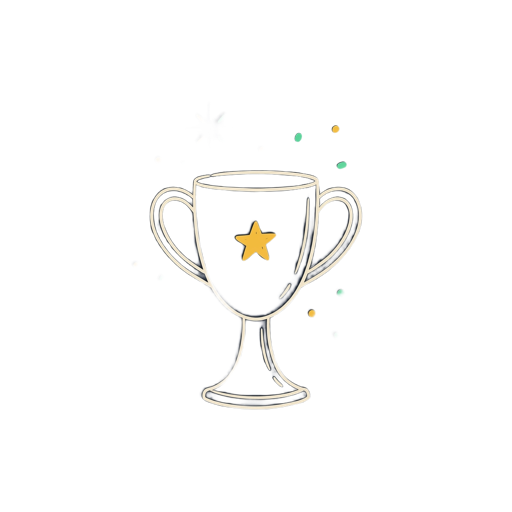
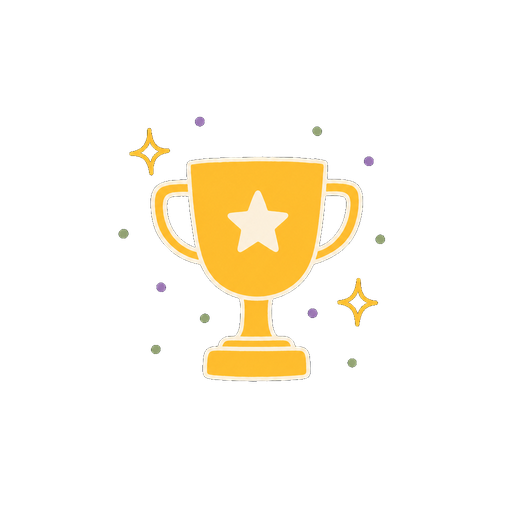
Dashboard plný doodlů + trofej v2 (zlatá) + dedup .env
- Nové doodly (GPT Image 2 + lokální chroma-key výřez): rocket, headset, folder, trophy v2
- Card/StatCard: doodle sloty (rohové dekorace) — pipeline→raketa, projekty→složka,
  tickety→headset, revenue→graf, win-rate→trofej; ověřeno screenshoty (1440px, bez překryvů)
- .env dedup (EMAIL_PROVIDER=smtp teď platí); Resend klíč je zkrácený (12 znaků) — čeká na plný

diff --git a/src/ui/components/ui.tsx b/src/ui/components/ui.tsx
@@ -2,23 +2,32 @@ import type { ReactNode } from "react";
 
 /** Znovupoužitelné UI prvky — tmavý motiv, mint/emerald akcent. */
 
-export function Card({ children, className = "" }: { children: ReactNode; className?: string }) {
-  return <div className={`rounded-2xl border border-line bg-surface p-5 ${className}`}>{children}</div>;
+export function Card({ children, className = "", doodle, doodlePos = "tr" }: { children: ReactNode; className?: string; doodle?: string; doodlePos?: "tr" | "br" }) {
+  return (
+    <div className={`relative rounded-2xl border border-line bg-surface p-5 ${className}`}>
+      {doodle && (
+        <img src={doodle} alt="" width={80} height={80}
+          className={`pointer-events-none absolute select-none opacity-95 ${doodlePos === "tr" ? "right-2 top-0" : "bottom-0 right-2"}`} />
+      )}
+      {children}
+    </div>
+  );
 }
 
-export function StatCard({ label, value, hint, icon, tone = "accent" }: { label: string; value: ReactNode; hint?: string; icon?: ReactNode; tone?: "accent" | "amber" | "blue" | "pink" }) {
+export function StatCard({ label, value, hint, icon, tone = "accent", doodle }: { label: string; value: ReactNode; hint?: string; icon?: ReactNode; tone?: "accent" | "amber" | "blue" | "pink"; doodle?: string }) {
   const iconBg: Record<string, string> = {
     accent: "bg-accent-soft text-accent", amber: "bg-amber-400/10 text-amber-400",
     blue: "bg-sky-400/10 text-sky-400", pink: "bg-pink-400/10 text-pink-400",
   };
   return (
-    <div className="rounded-2xl border border-line bg-surface p-5 transition-colors hover:border-accent/40">
+    <div className="relative rounded-2xl border border-line bg-surface p-5 transition-colors hover:border-accent/40">
       <div className="flex items-center justify-between">
         <span className="text-sm font-medium text-muted">{label}</span>
         {icon && <span className={`grid h-9 w-9 place-items-center rounded-xl ${iconBg[tone]}`}>{icon}</span>}
       </div>
       <div className="mt-3 font-display text-4xl tracking-wide text-ink">{value}</div>
       {hint && <div className="mt-1 text-xs text-faint">{hint}</div>}
+      {doodle && <img src={doodle} alt="" width={52} height={52} className="pointer-events-none absolute bottom-2 right-3 select-none opacity-90" />}
     </div>
   );
 }

diff --git a/src/ui/pages/dashboard-view.tsx b/src/ui/pages/dashboard-view.tsx
@@ -30,13 +30,13 @@ export function DashboardView({ data }: { data: DashboardData }) {
     <div className="mx-auto max-w-6xl space-y-6">
       <div className="grid gap-4 sm:grid-cols-2 lg:grid-cols-4">
         <Link href="/tasks"><StatCard label="Moje práce" value={data.myWork.count} hint="otevřené úkoly" tone="accent" icon={<I d={<><path d="M9 11l3 3L22 4" /><path d="M21 12v7a2 2 0 0 1-2 2H5a2 2 0 0 1-2-2V5a2 2 0 0 1 2-2h11" /></>} />} /></Link>
-        <StatCard label="Win-rate" value={data.win.winRatePct != null ? `${data.win.winRatePct}%` : "—"} hint={`vyhráno ${data.win.won} · prohráno ${data.win.lost}`} tone="blue" icon={<I d={<><circle cx="12" cy="8" r="6" /><path d="M15.5 13.5 17 22l-5-3-5 3 1.5-8.5" /></>} />} />
+        <StatCard label="Win-rate" value={data.win.winRatePct != null ? `${data.win.winRatePct}%` : "—"} hint={`vyhráno ${data.win.won} · prohráno ${data.win.lost}`} tone="blue" doodle="/doodles/trophy.png" icon={<I d={<><circle cx="12" cy="8" r="6" /><path d="M15.5 13.5 17 22l-5-3-5 3 1.5-8.5" /></>} />} />
         <Link href="/tasks"><StatCard label="Po termínu" value={data.overdue.count} hint="overdue úkoly" tone="amber" icon={<I d={<><circle cx="12" cy="12" r="9" /><path d="M12 7v5l3 2" /></>} />} /></Link>
         <Link href="/deals"><StatCard label="Pipeline value" value={money(totalPipeline)} hint="otevřené dealy" tone="pink" icon={<I d={<><line x1="18" y1="20" x2="18" y2="10" /><line x1="12" y1="20" x2="12" y2="4" /><line x1="6" y1="20" x2="6" y2="14" /></>} />} /></Link>
       </div>
 
       <div className="grid gap-6 lg:grid-cols-3">
-        <Card className="lg:col-span-2">
+        <Card className="lg:col-span-2 pb-14" doodle="/doodles/rocket.png" doodlePos="br">
           <SectionTitle right={<Link href="/deals" className="text-xs font-medium text-accent hover:underline">Otevřít pipeline →</Link>}>Pipeline po fázích</SectionTitle>
           <div className="space-y-3.5">
             {data.pipeline.map((p) => (
@@ -53,7 +53,7 @@ export function DashboardView({ data }: { data: DashboardData }) {
           </div>
         </Card>
 
-        <Card>
+        <Card doodle="/doodles/folder.png">
           <SectionTitle>Stav projektů</SectionTitle>
           {totalProjects === 0 ? <Empty>Zatím žádné projekty</Empty> : (
             <div className="flex items-center gap-5">
@@ -78,9 +78,9 @@ export function DashboardView({ data }: { data: DashboardData }) {
       </div>
 
       <div className="grid gap-6 lg:grid-cols-2">
-        <Card>
+        <Card doodle="/doodles/headset.png">
           <SectionTitle>Otevřené tickety</SectionTitle>
-          {data.tickets.length === 0 ? <Empty>Žádné otevřené tickety 🎉</Empty> : (
+          {data.tickets.length === 0 ? <Empty doodle={null}>Žádné otevřené tickety 🎉</Empty> : (
             <div className="space-y-2">
               {data.tickets.map((t) => (
                 <div key={t.priority} className="flex items-center justify-between rounded-xl px-3 py-2 hover:bg-white/5">
@@ -92,9 +92,9 @@ export function DashboardView({ data }: { data: DashboardData }) {
           )}
         </Card>
 
-        <Card>
+        <Card doodle="/doodles/chart.png">
           <SectionTitle>Revenue / klient</SectionTitle>
-          {data.revenue.length === 0 ? <Empty doodle="/doodles/chart.png">Zatím žádné vyhrané dealy</Empty> : (
+          {data.revenue.length === 0 ? <Empty doodle={null}>Zatím žádné vyhrané dealy</Empty> : (
             <div className="space-y-2">
               {data.revenue.map((r) => (
                 <div key={r.organization} className="flex items-center justify-between rounded-xl px-3 py-2 hover:bg-white/5">